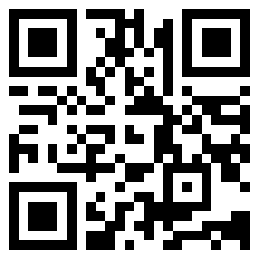
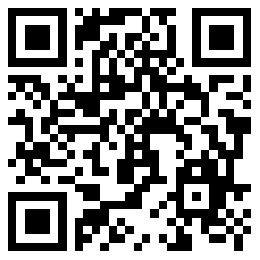
feat: 增加移动端演示页面

diff --git a/src/pages/index.tsx b/src/pages/index.tsx
@@ -2,6 +2,7 @@ import React, { FC } from 'react';
 import { Button, WhiteSpace } from 'antd-mobile';
 import { Field, useForm } from 'rc-field-form';
 import { Store, ValidateErrorEntity } from 'rc-field-form/es/interface';
+import { router } from 'umi';
 import DynamicForm, { IFormItemProps } from '../DynamicForm';
 
 const tailLayout = {
@@ -129,14 +130,20 @@ const Page: FC = () => {
     // allDisabled: true,
   };
   return (
-    <DynamicForm {...formProps}>
+    <>
+      <DynamicForm {...formProps}>
+        <WhiteSpace size="xl" />
+        <Field {...tailLayout}>
+          <Button type="primary" onClick={() => form.submit()}>
+            Submit
+          </Button>
+        </Field>
+      </DynamicForm>
       <WhiteSpace size="xl" />
-      <Field {...tailLayout}>
-        <Button type="primary" onClick={() => form.submit()}>
-          Submit
-        </Button>
-      </Field>
-    </DynamicForm>
+      <Button type="primary" onClick={() => router.push('/normallist')}>
+        下一页
+      </Button>
+    </>
   );
 };
 

diff --git a/src/pages/card.tsx b/src/pages/card.tsx
@@ -2,6 +2,7 @@ import React, { FC } from 'react';
 import { Button, WhiteSpace } from 'antd-mobile';
 import { Field, useForm } from 'rc-field-form';
 import { Store, ValidateErrorEntity } from 'rc-field-form/es/interface';
+import { router } from 'umi';
 import DynamicForm, { IFormItemProps } from '../DynamicForm';
 
 const tailLayout = {
@@ -139,6 +140,10 @@ const Page: FC = () => {
           </Button>
         </Field>
       </DynamicForm>
+      <WhiteSpace size="xl" />
+      <Button type="primary" onClick={() => router.push('/cardlist')}>
+        下一页
+      </Button>
     </>
   );
 };

diff --git a/src/pages/normallist.tsx b/src/pages/normallist.tsx
@@ -2,6 +2,7 @@ import React, { FC } from 'react';
 import { Button, WhiteSpace } from 'antd-mobile';
 import { Field, useForm } from 'rc-field-form';
 import { Store, ValidateErrorEntity } from 'rc-field-form/es/interface';
+import { router } from 'umi';
 import DynamicForm, { IFormItemProps } from '../DynamicForm';
 
 const tailLayout = {
@@ -164,6 +165,10 @@ const Page: FC = () => {
           </Button>
         </Field>
       </DynamicForm>
+      <WhiteSpace size="xl" />
+      <Button type="primary" onClick={() => router.push('/card')}>
+        下一页
+      </Button>
     </>
   );
 };

diff --git a/src/pages/cardlist.tsx b/src/pages/cardlist.tsx
@@ -2,6 +2,7 @@ import React, { FC } from 'react';
 import { Button, WhiteSpace } from 'antd-mobile';
 import { Field, useForm } from 'rc-field-form';
 import { Store, ValidateErrorEntity } from 'rc-field-form/es/interface';
+import { router } from 'umi';
 import DynamicForm, { IFormItemProps } from '../DynamicForm';
 
 const tailLayout = {
@@ -167,6 +168,10 @@ const Page: FC = () => {
           </Button>
         </Field>
       </DynamicForm>
+      <WhiteSpace size="xl" />
+      <Button type="primary" onClick={() => router.push('/')}>
+        下一页
+      </Button>
     </>
   );
 };

diff --git a/src/demo/show.tsx b/src/demo/show.tsx
@@ -1,0 +1,10 @@
+import React, { FC } from 'react';
+import QRCode from '../assets/QRCode.png';
+
+const Page: FC = () => (
+  <a href="https://dist.xiaohuoni.now.sh/" target="_blank" rel="noopener noreferrer">
+    <img src={QRCode} />
+  </a>
+);
+
+export default Page;

diff --git a/src/index.md b/src/index.md
@@ -4,6 +4,12 @@ title: 首页
 
 # 移动端的表单方案
 
+## 移动端演示地址
+
+在移动端访问，能浏览最佳演示效果，请使用移动设备扫描下方二维码，或者点击下方二维码，在新页面中打开浏览器开发者工具，模拟移动端访问。
+
+<code src="./demo/show.tsx" />
+
 ## 代码演示
 
 <code src="./demo/index.tsx" />
